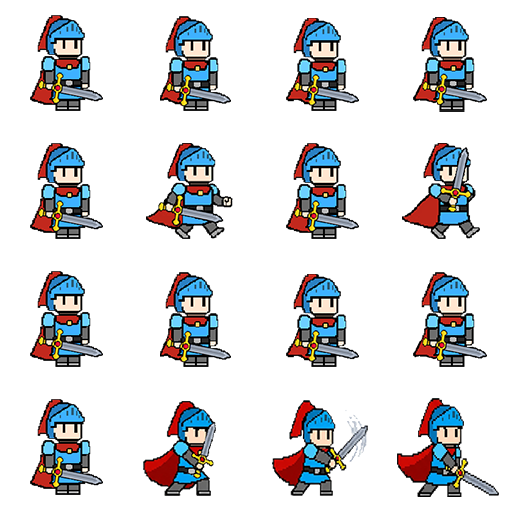
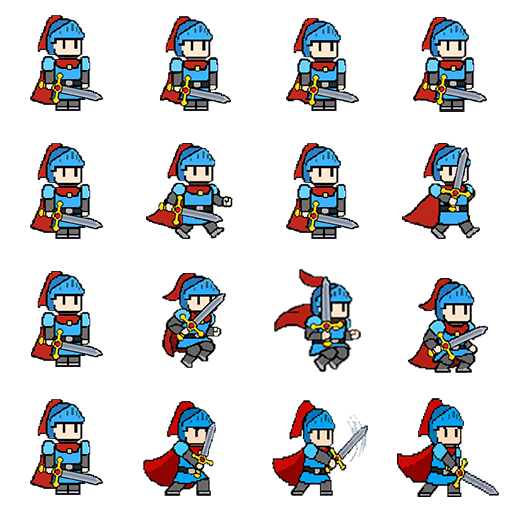
プレイヤーのジャンプ画像を反映

Changed region(s): [[0.5312, 0.5312, 0.7188, 0.75], [0.7812, 0.5312, 0.9688, 0.75], [0.3125, 0.5312, 0.4688, 0.7188]]

diff --git a/Source/Player.cpp b/Source/Player.cpp
@@ -34,8 +34,6 @@ Player::Player(VECTOR initPos)
 	mSpawnPos = initPos;
 	mDeadState = 0;
 	mpBlockMap = nullptr;
-	//mCurrentFrame = 0;
-	//mFrameTimer = 0;
 	mfMoveDirection = 0.0f;
 
 
